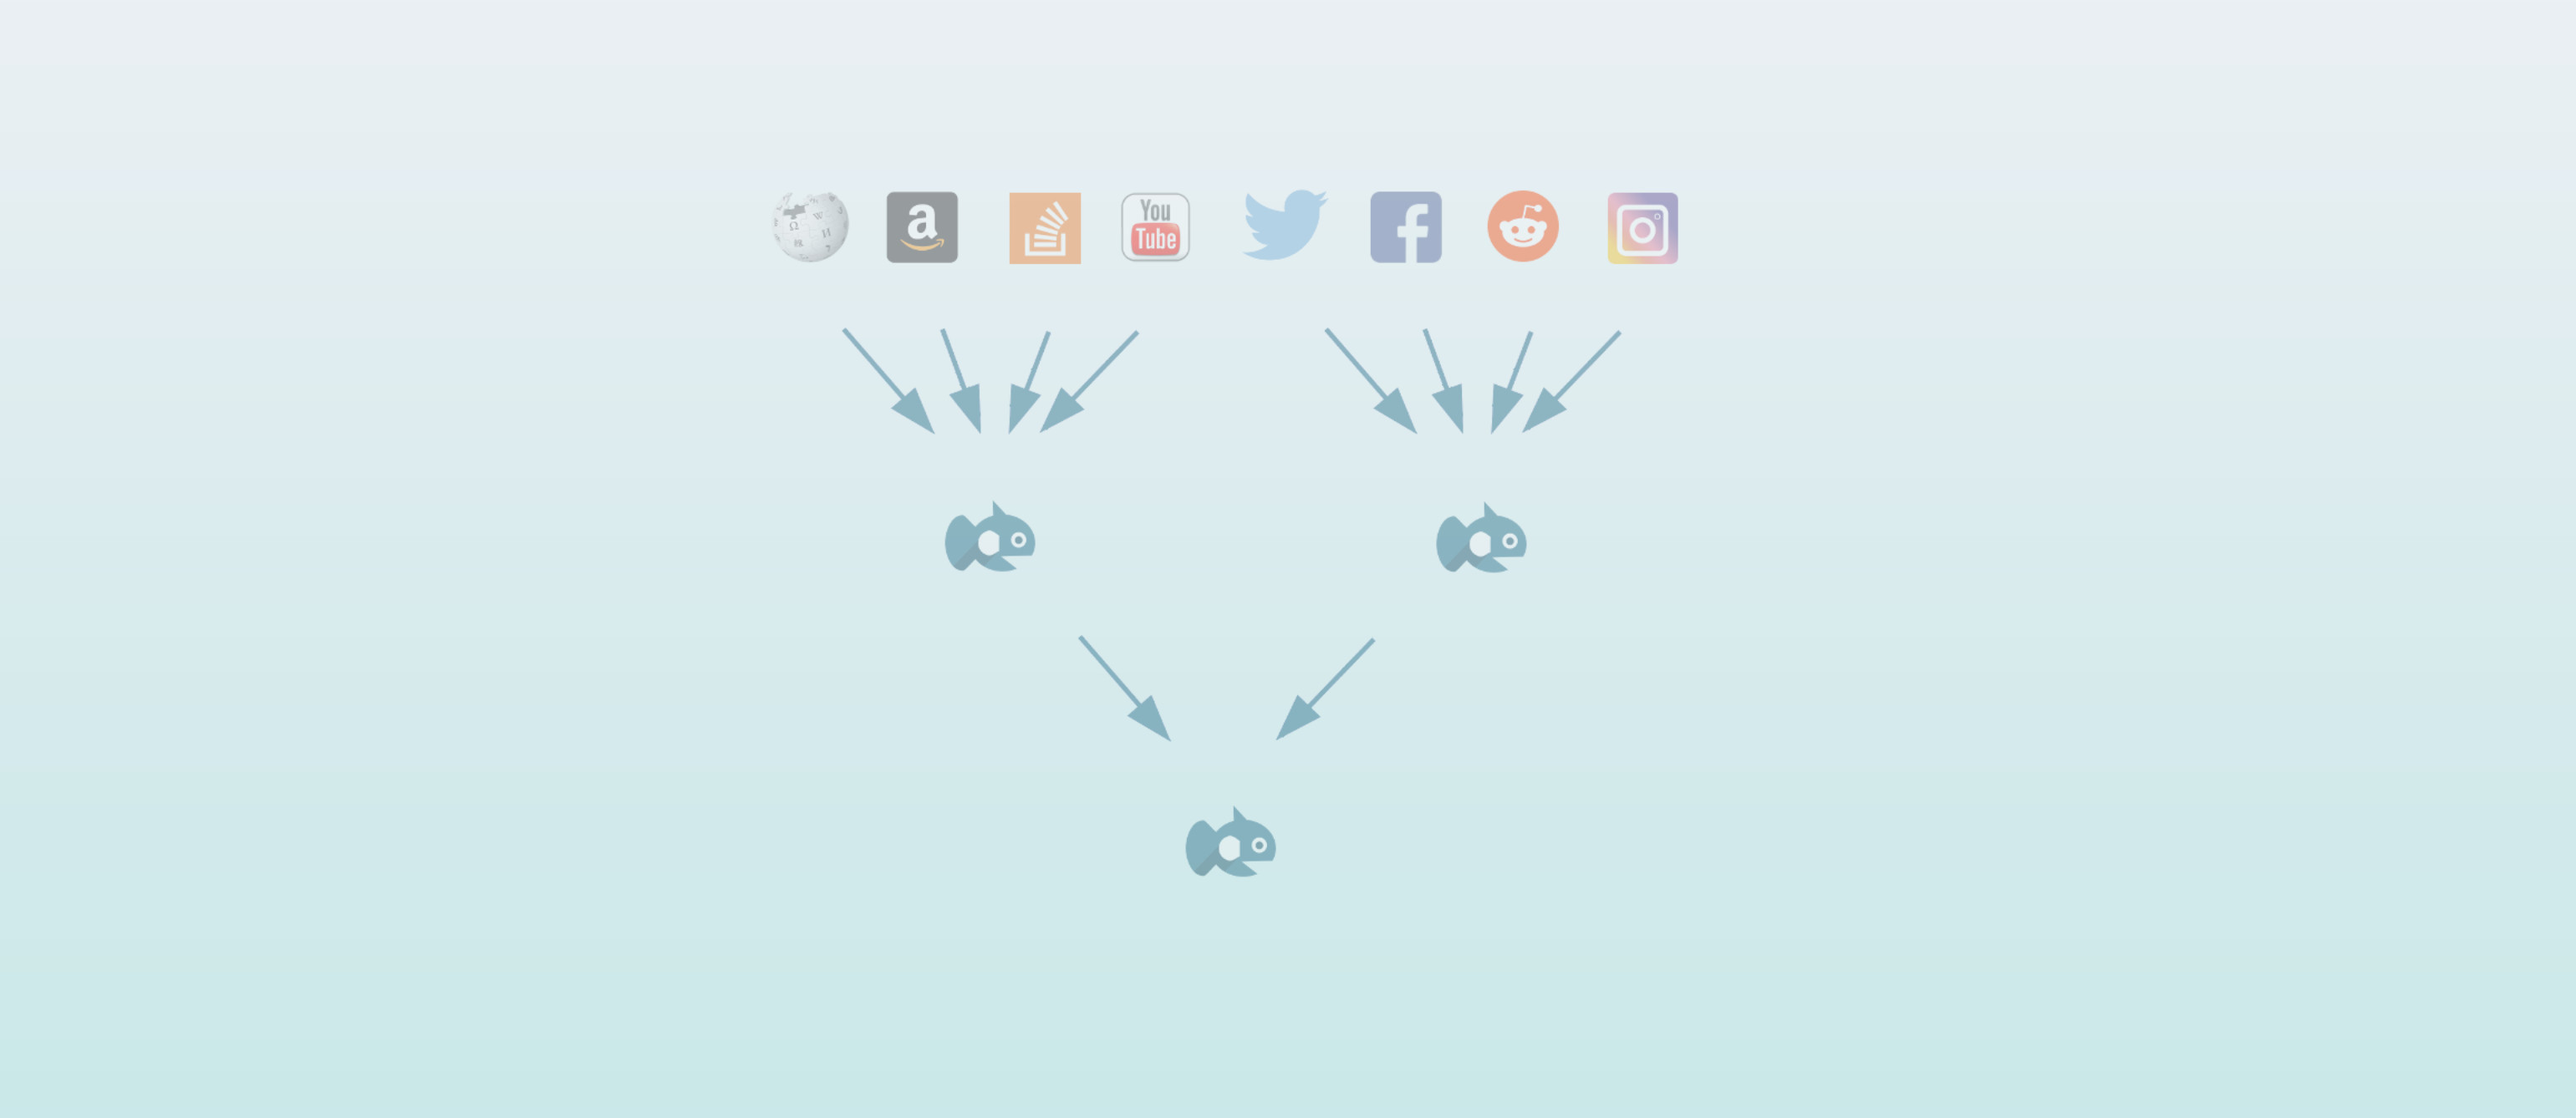
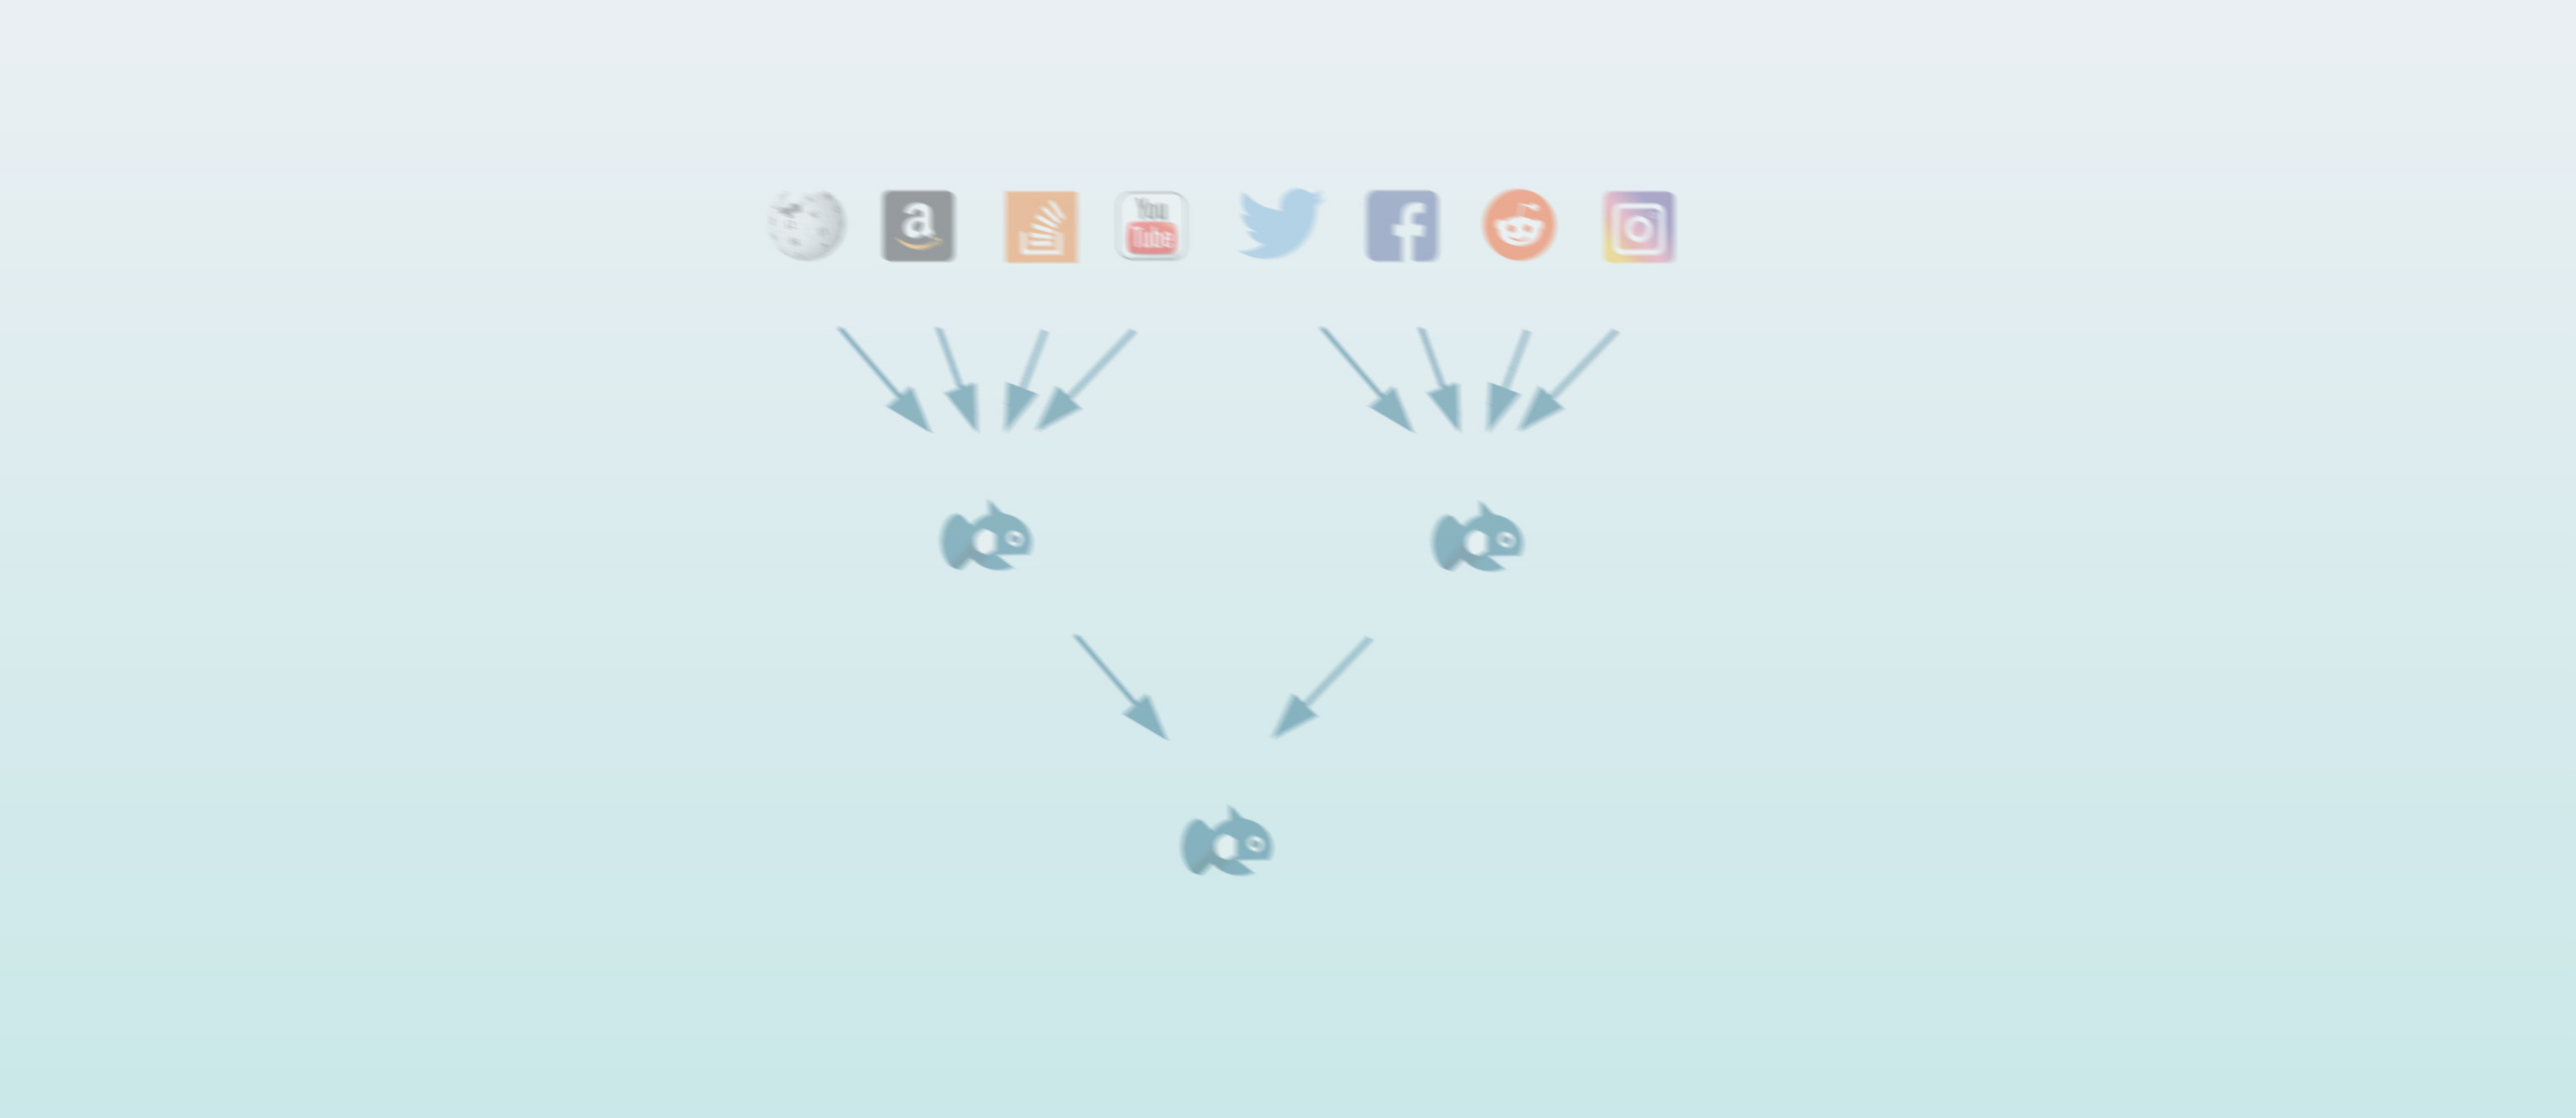
typo and blur

diff --git a/_posts/2017-01-13-isoc-three-worries.md b/_posts/2017-01-13-isoc-three-worries.md
@@ -53,7 +53,7 @@ Each Searsia engine is a search engine too, pretty much like any other search en
 
 ## Conclusion
 
-Let's go back to our three worries: Manipulation, Privacy, and Costs of crawling. What do you gain by installing Searsia? First, Searsia delegates queries to multiple search engines that it does not control. Even if one or two of those manipulate or censor their results, there will be other engines in the federation that show more objective results. Second, all queries go via Searsia, so engines in the federation can no longer track individual users. Of course, now Searsia will get all your queries, but no worries, anyone can run a Searsia server. Third, Searsia does not crawl the web, ever. It will learn over time from each engine in the federation what its contents are. This makes it cheap to set up a Searsia engine, and easy to maintain. You can run Searsia on a cheap server is your own network.
+Let's go back to our three worries: Manipulation, Privacy, and Costs of crawling. What do you gain by installing Searsia? First, Searsia delegates queries to multiple search engines that it does not control. Even if one or two of those manipulate or censor their results, there will be other engines in the federation that show more objective results. Second, all queries go via Searsia, so engines in the federation can no longer track individual users. Of course, now Searsia will get all your queries, but no worries, anyone can run a Searsia server. Third, Searsia does not crawl the web, ever. It will learn over time from each engine in the federation what its contents are. This makes it cheap to set up a Searsia engine, and easy to maintain. You can run Searsia on a cheap server in your own network.
 
 ## Acknowledgments
 
